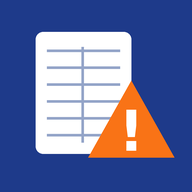
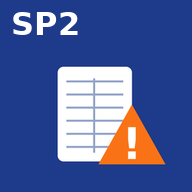
Omdøb Pladsen til SP2 El-planer

Changed region(s): [[0.0625, 0.0625, 0.9062, 0.875]]

diff --git a/plads/index.html b/plads/index.html
@@ -6,13 +6,13 @@
 <meta name="apple-mobile-web-app-capable" content="yes">
 <meta name="mobile-web-app-capable" content="yes">
 <meta name="apple-mobile-web-app-status-bar-style" content="black">
-<meta name="apple-mobile-web-app-title" content="Pladsen">
+<meta name="apple-mobile-web-app-title" content="SP2 El-planer">
 <meta name="theme-color" content="#1e3a8a">
 <meta name="robots" content="noindex,nofollow">
 <link rel="apple-touch-icon" href="apple-touch-icon.png">
 <link rel="icon" type="image/png" href="icon-192.png">
 <link rel="manifest" href="manifest.json">
-<title>Pladsen – tegninger &amp; afvigelser</title>
+<title>SP2 El-planer – tegninger &amp; afvigelser</title>
 <style>
 :root{--bg:#f1f4f9;--card:#fff;--ink:#1c1f24;--mut:#5b6472;--line:#d6dce5;--ok:#15803d;--bad:#c2410c;--red:#dc2626;--acc:#1e3a8a;--warn:#b45309}
 *{box-sizing:border-box;-webkit-tap-highlight-color:transparent}
@@ -95,7 +95,7 @@ textarea{min-height:110px}
 <body>
 <div id="demo">DEMO – ikke forbundet til den fælles liste. Rapporter gemmes kun på denne telefon.</div>
 <header>
-  <h1>📐 Pladsen <small>tegninger &amp; afvigelser</small></h1>
+  <h1>📐 SP2 El-planer <small>tegninger &amp; afvigelser</small></h1>
   <div class="tabs"><button id="t_tg" onclick="tab('tg')">📐 Tegninger</button><button id="t_fejl" onclick="tab('fejl')">⚠ Fejlliste <span id="fejlN" class="tbadge" style="display:none"></span></button></div>
 </header>
 <div id="ptr"></div>
@@ -104,7 +104,7 @@ textarea{min-height:110px}
   <div id="main"></div>
 </div>
 <div id="fabw"></div>
-<div id="upd"><span>Ny version af Pladsen</span><button onclick="location.reload()">Genindlæs</button></div>
+<div id="upd"><span>Ny version af SP2 El-planer</span><button onclick="location.reload()">Genindlæs</button></div>
 <div id="toast"></div>
 <div class="ov" id="form" onclick="if(event.target===this)0"><div class="sheet" id="formS"></div></div>
 <div class="ov" id="dlg" onclick="if(event.target===this)closeDlg()"><div class="sheet" id="dlgS"></div></div>

diff --git a/plads/sw.js b/plads/sw.js
@@ -1,7 +1,7 @@
 // Pladsen service worker (scope /daasetjek/plads/). Rører ikke Dåsetjek 1/2's caches.
 // App-filer: netværk først, cache som reserve. Tegninger + PDF.js (fra ../v2/): cache først.
 // Supabase og ntfy (andre domæner) går altid direkte på nettet.
-const APP = "pladsen-app-v2";
+const APP = "pladsen-app-v3";
 const TG = "pladsen-tegninger-v1";          // samme navn som TGC i index.html
 const OWN = [APP, TG];
 const CORE = ["./", "./index.html", "./manifest.json", "./apple-touch-icon.png", "./icon-192.png", "./icon-512.png"];
